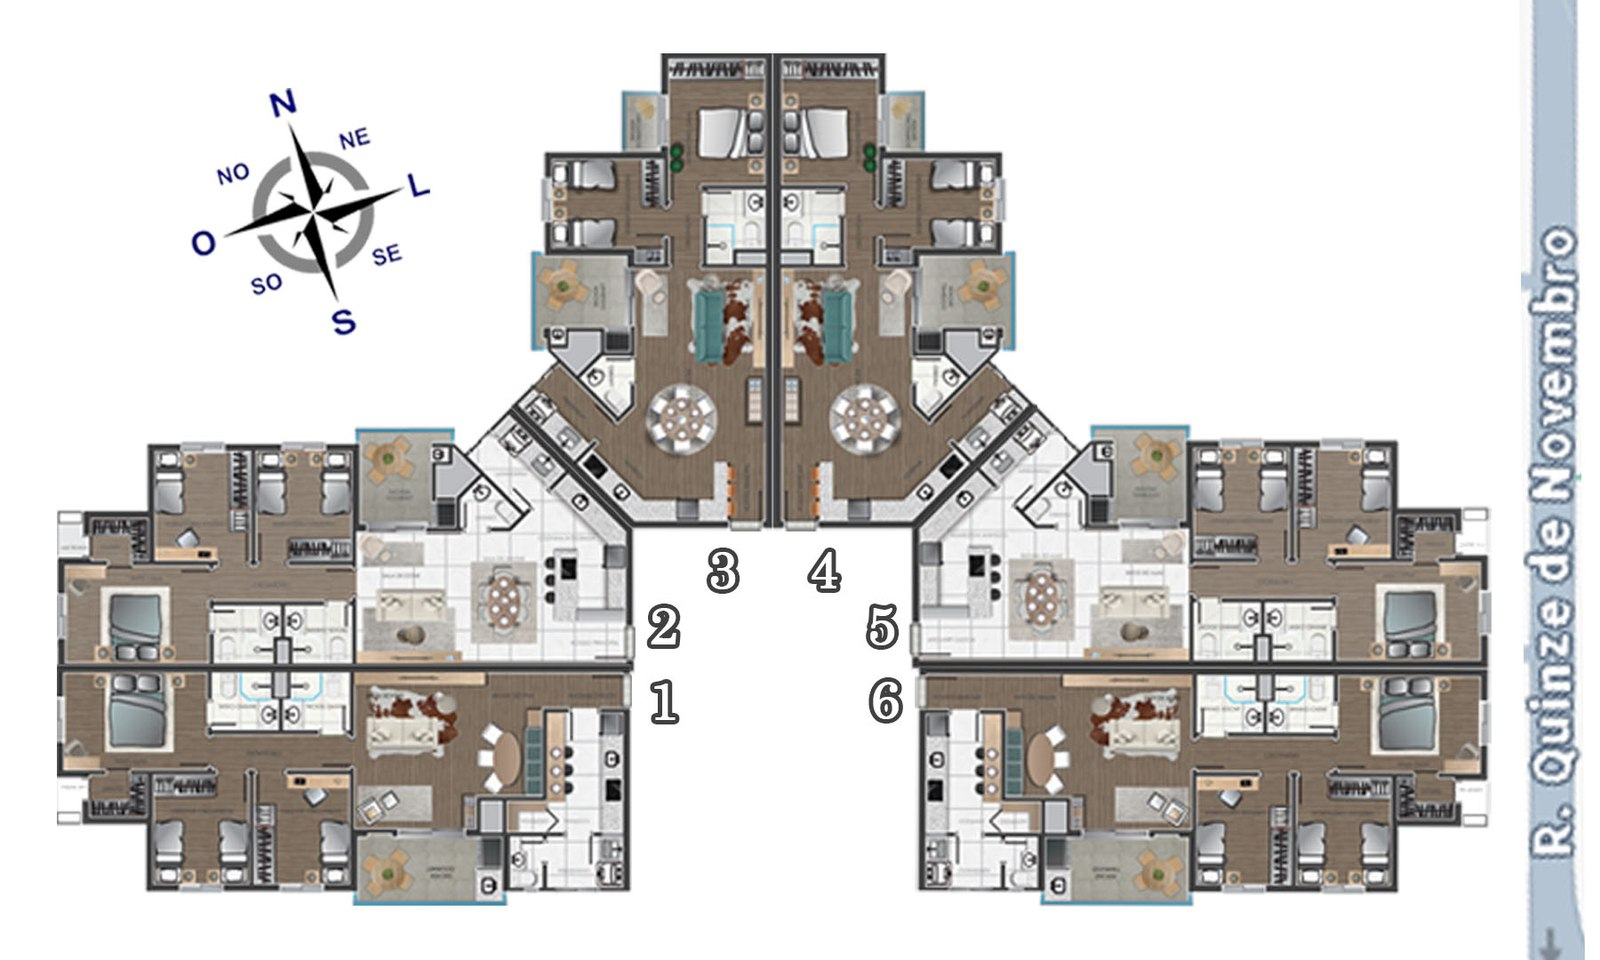
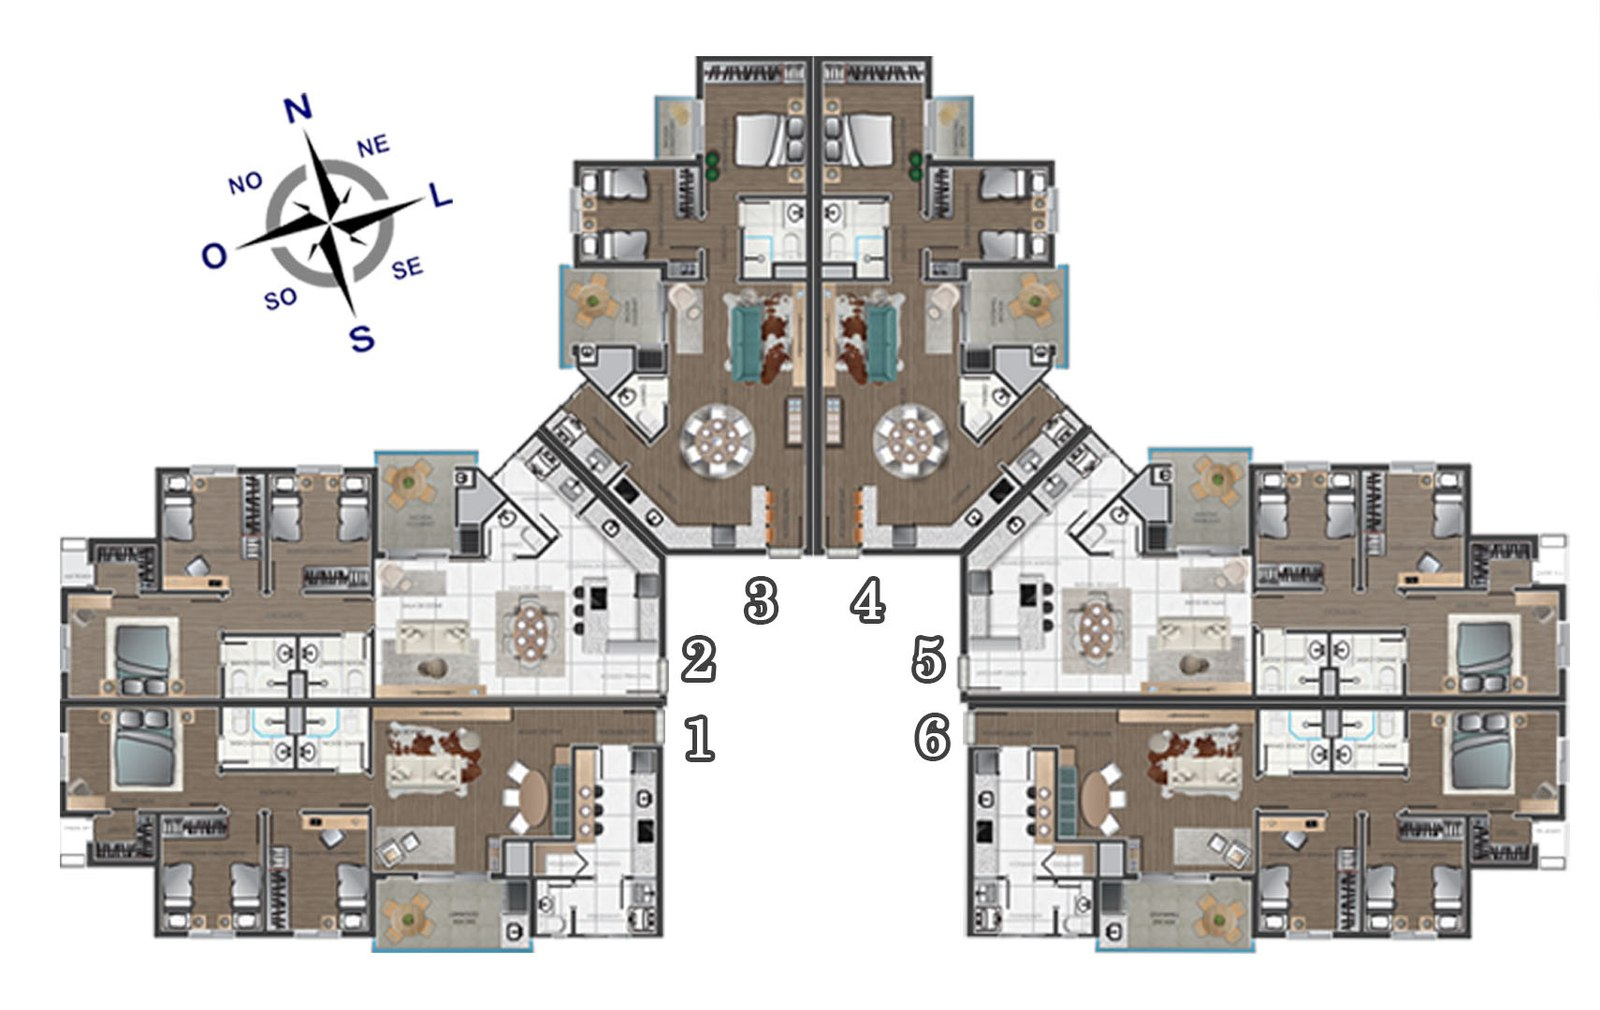
Ajustes: hero mais limpo, implantação sem rua, planta 03/04 completa
Remove botão do hero e desce o texto, com overlay mais leve pra
valorizar a foto. Corta a faixa com nome de rua incorreto da
implantação. Recorta a planta 03/04 inteira e uniformiza a altura
dos três cards. Adiciona deck de lazer noturno e Travessa Conde de
Piratiny na seção de áreas comuns.

diff --git a/index.html b/index.html
@@ -76,12 +76,12 @@
   }
   .hero::after{
     content:"";position:absolute;inset:0;
-    background:linear-gradient(to top, rgba(8,6,4,0.96) 0%, rgba(8,6,4,0.82) 30%, rgba(8,6,4,0.62) 55%, rgba(8,6,4,0.4) 78%, rgba(8,6,4,0.22) 100%);
+    background:linear-gradient(to top, rgba(8,6,4,0.88) 0%, rgba(8,6,4,0.55) 26%, rgba(8,6,4,0.18) 52%, rgba(8,6,4,0.05) 75%, rgba(8,6,4,0) 100%);
   }
-  .hero-content{position:relative;z-index:2;color:#F5F0E8;padding:0 32px 90px;max-width:1180px;margin:0 auto;width:100%;}
+  .hero-content{position:relative;z-index:2;color:#F5F0E8;padding:0 32px 48px;max-width:1180px;margin:0 auto;width:100%;}
   .hero-content .eyebrow{color:#E4CFA9;margin-bottom:18px;text-shadow:0 2px 16px rgba(0,0,0,0.6);}
   .hero-content h1{font-size:clamp(2.1rem, 4.6vw, 3.6rem);max-width:820px;margin-bottom:20px;text-shadow:0 4px 24px rgba(0,0,0,0.55);}
-  .hero-content p{font-size:1.05rem;max-width:560px;color:#F0E9DC;margin-bottom:34px;text-shadow:0 2px 16px rgba(0,0,0,0.55);}
+  .hero-content p{font-size:1.05rem;max-width:560px;color:#F0E9DC;margin-bottom:0;text-shadow:0 2px 16px rgba(0,0,0,0.55);}
 
   /* SECTION GENERIC */
   section{padding:100px 0;}
@@ -133,7 +133,7 @@
   .plantas-intro h2{font-size:1.9rem;}
   .plantas-grid{display:grid;grid-template-columns:repeat(3,1fr);gap:28px;}
   .planta-card{background:#fff;border-radius:12px;overflow:hidden;box-shadow:0 2px 12px rgba(44,36,22,0.08);}
-  .planta-card img{width:100%;background:#fff;}
+  .planta-card img{width:100%;height:230px;object-fit:contain;background:#fff;padding:14px 14px 0;}
   .planta-card .planta-body{padding:22px 24px 26px;}
   .planta-card h3{font-size:1.2rem;margin-bottom:4px;}
   .planta-card .planta-meta{font-size:0.8rem;color:var(--accent);margin-bottom:14px;font-weight:600;text-transform:uppercase;letter-spacing:0.03em;}
@@ -141,6 +141,12 @@
   .planta-card li{font-size:0.85rem;padding:7px 0;border-bottom:1px solid rgba(44,36,22,0.08);padding-left:14px;position:relative;}
   .planta-card li::before{content:"";width:5px;height:5px;border-radius:50%;background:var(--accent);position:absolute;left:0;top:13px;}
   .planta-card li:last-child{border-bottom:none;}
+
+  /* GALERIA ÁREAS COMUNS */
+  .gallery-duo{display:grid;grid-template-columns:1.4fr 1fr;gap:20px;margin-top:64px;}
+  .gallery-duo .g-item{position:relative;border-radius:10px;overflow:hidden;}
+  .gallery-duo .g-item img{width:100%;height:340px;object-fit:cover;}
+  .gallery-duo .g-label{position:absolute;bottom:0;left:0;right:0;background:linear-gradient(to top, rgba(15,12,7,0.8), transparent);color:#fff;padding:18px 18px 14px;font-size:0.85rem;font-weight:600;}
 
   /* CAROUSEL */
   .carousel-wrap{margin-top:44px;}
@@ -197,6 +203,8 @@
     .stats{grid-template-columns:1fr 1fr;}
     .spec-grid{grid-template-columns:1fr;}
     .plantas-grid{grid-template-columns:1fr;}
+    .gallery-duo{grid-template-columns:1fr;}
+    .gallery-duo .g-item img{height:260px;}
     section{padding:70px 0;}
     .feature-full img{height:420px;}
     .carousel .slide{width:280px;}
@@ -218,7 +226,6 @@
     <p class="eyebrow">Residencial Central Park · Centro Histórico de Pelotas</p>
     <h1>O último endereço vertical dentro do Centro Histórico de Pelotas.</h1>
     <p>Piscina aquecida, lounge com bangalôs, dois salões de festas e academia — a poucos passos da Praça Coronel Pedro Osório. Entrega prevista para novembro de 2027.</p>
-    <a href="#lead" class="btn">Acessar Plantas e Condições de Compra</a>
   </div>
 </section>
 
@@ -368,12 +375,18 @@
 </section>
 
 <section>
-  <div class="wrap two-col reverse">
-    <div class="img-col"><img src="img/salao-festas.jpg" alt="Salão de Festas Master do Central Park"></div>
-    <div>
-      <p class="eyebrow">Áreas comuns mobiliadas e decoradas</p>
-      <h2>Cada espaço, cuidadosamente projetado.</h2>
-      <p>Coworking, playground, praças internas e salões de festas com acabamento de alto padrão como entrega, não como opcional de tabela. A arquitetura contemporânea do Central Park valoriza o detalhe em cada ambiente de uso comum.</p>
+  <div class="wrap">
+    <div class="two-col reverse">
+      <div class="img-col"><img src="img/salao-festas.jpg" alt="Salão de Festas Master do Central Park"></div>
+      <div>
+        <p class="eyebrow">Áreas comuns mobiliadas e decoradas</p>
+        <h2>Cada espaço, cuidadosamente projetado.</h2>
+        <p>Coworking, playground, praças internas e salões de festas com acabamento de alto padrão como entrega, não como opcional de tabela. A arquitetura contemporânea do Central Park valoriza o detalhe em cada ambiente de uso comum.</p>
+      </div>
+    </div>
+    <div class="gallery-duo">
+      <div class="g-item"><img src="img/lazer-noturno.jpg" alt="Vista aérea noturna do deck de lazer com praças, lounge e piscina externa"><div class="g-label">Deck de lazer — praças, lounge e piscina externa</div></div>
+      <div class="g-item"><img src="img/travessa.jpg" alt="Travessa Conde de Piratiny, acesso do Central Park"><div class="g-label">Travessa Conde de Piratiny — o acesso do empreendimento</div></div>
     </div>
   </div>
 </section>